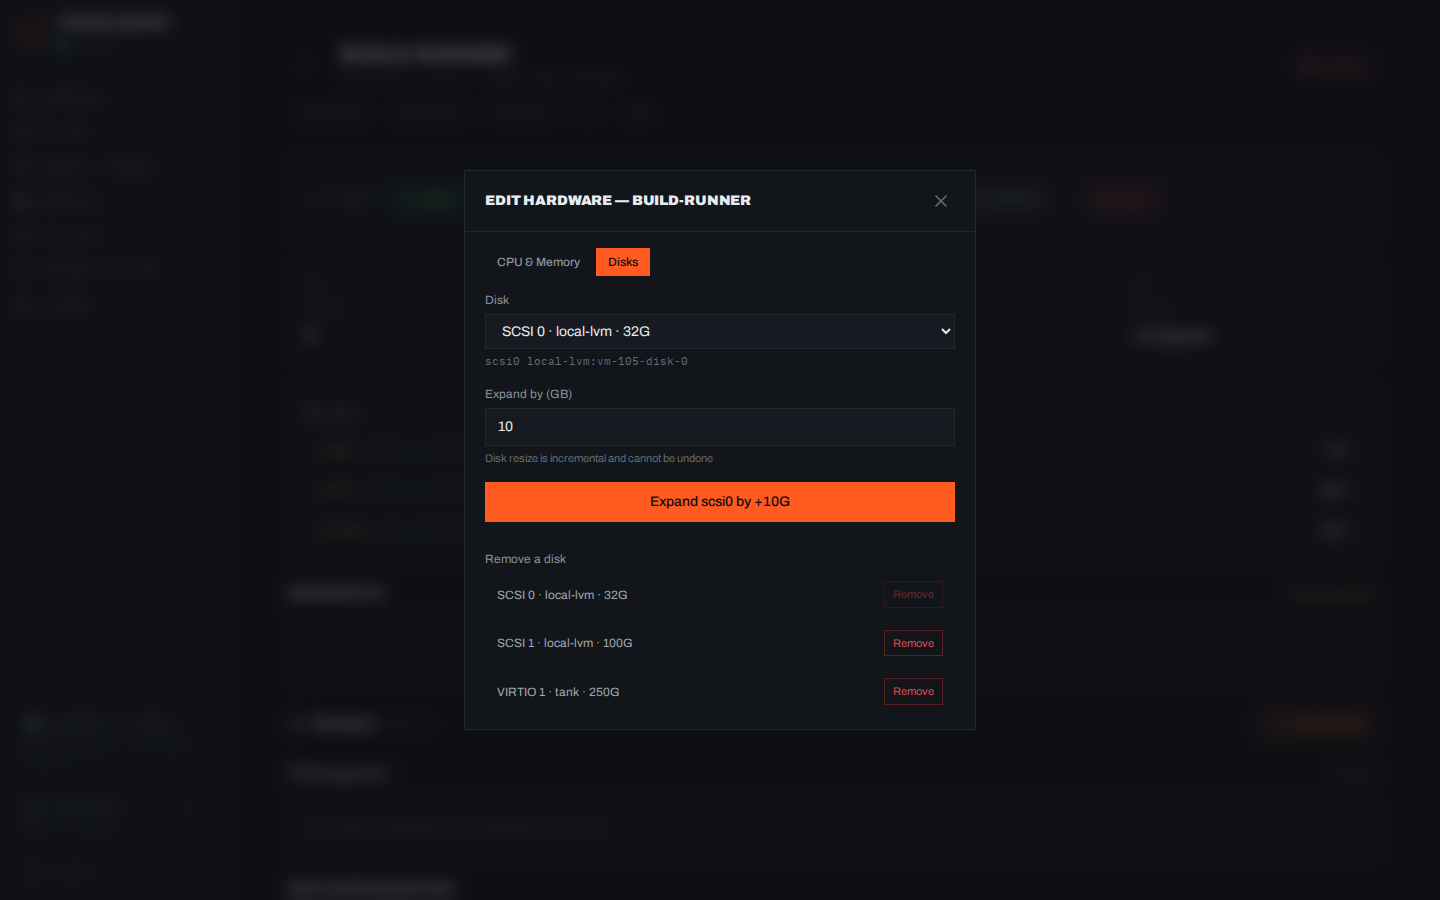
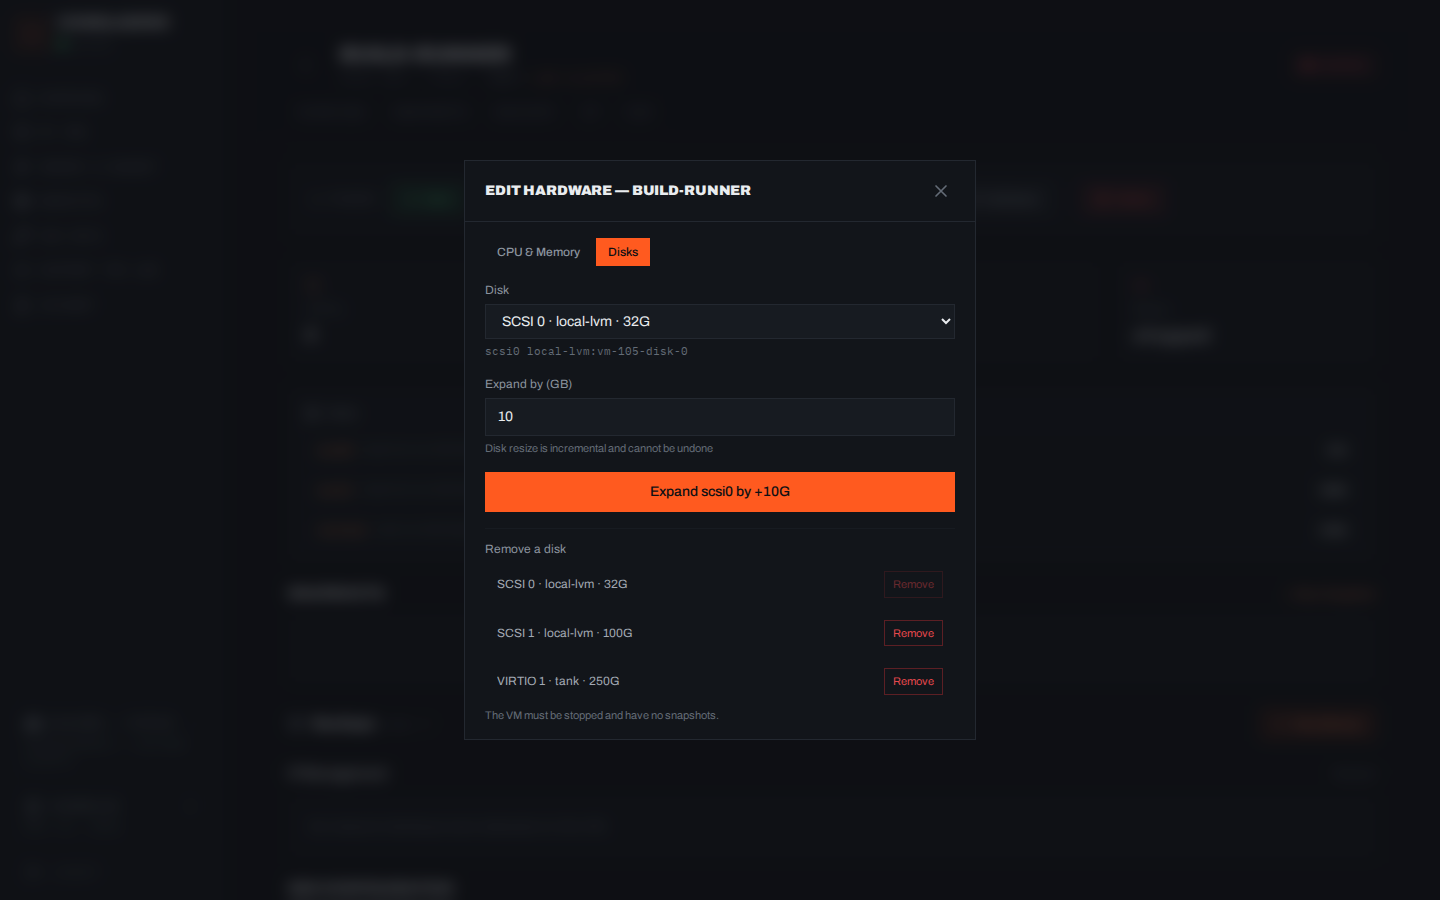
Address review: harden disk removal guards
- Run the removal under the VM migration lock, refusing a pending
  migration and a migrated-away source copy.
- Resolve a single owner before deleting (409 on conflicting aliases).
- Only delete PVE-managed volumes this VM owns (vm-<vmid>-disk-N); host
  paths and other VMs' volumes would merely be detached.
- Boot fallback follows PVE's first disk across ide/sata/scsi/virtio.
- Removal only lowers the existing quota floor, never raises it.
- UI disables Remove for non-owners and the new cases, with tooltips.

Changed region(s): [[0.3125, 0.1867, 0.6562, 0.7156], [0.3438, 0.7467, 0.5, 0.8089], [0.625, 0.6222, 0.6562, 0.7778]]

diff --git a/backend/src/routes/vms.ts b/backend/src/routes/vms.ts
@@ -1363,11 +1363,17 @@ router.put('/:node/:vmid/resize-disk', pHardware, async (req, res) => {
 });
 
 // Disks the VM boots from: every entry of `boot: order=...` plus the legacy
-// `bootdisk`; with neither naming a present disk, scsi0/virtio0 are assumed.
+// `bootdisk`. With neither naming a present disk, PVE boots its first disk
+// (ide, sata, scsi, virtio order; see resolve_first_disk), so that one is protected.
+const DISK_BUSES = ['ide', 'sata', 'scsi', 'virtio'];
 function bootDiskKeys(config) {
   const order = String(config?.boot ?? '').match(/(?:^|,)order=([^,]*)/)?.[1];
   const keys = new Set([...(order ? order.split(';') : []), ...(config?.bootdisk ? [config.bootdisk] : [])]);
-  if (![...keys].some((k) => /^(scsi|virtio|sata|ide)\d+$/.test(k) && typeof config?.[k] === 'string')) { keys.add('scsi0'); keys.add('virtio0'); }
+  const disks = Object.keys(config || {})
+    .map((k) => k.match(/^(ide|sata|scsi|virtio)(\d+)$/))
+    .filter((m) => m && typeof config[m[0]] === 'string' && !config[m[0]].split(',').includes('media=cdrom'))
+    .sort((a, b) => DISK_BUSES.indexOf(a[1]) - DISK_BUSES.indexOf(b[1]) || Number(a[2]) - Number(b[2]));
+  if (!disks.some((m) => keys.has(m[0])) && disks[0]) keys.add(disks[0][0]);
   return keys;
 }
 
@@ -1384,21 +1390,37 @@ router.delete('/:node/:vmid/disks/:disk', pHardware, async (req, res) => {
   }
 
   try {
-    const config = await getVMConfigCurrent(node, vmid);
-    const value = typeof config?.[disk] === 'string' ? config[disk] : '';
-    if (!value || value.split(',')[0] === 'none') throw httpError(404, `Disk ${disk} not found on this VM`);
-    if (value.includes('cloudinit') || value.split(',').includes('media=cdrom')) {
-      throw httpError(400, 'CD-ROM and cloud-init drives cannot be removed here');
-    }
-    if (bootDiskKeys(config).has(disk)) throw httpError(409, `${disk} is a boot disk and cannot be removed`);
-    if ((await getVMStatus(node, vmid))?.status !== 'stopped') throw httpError(409, 'Stop the VM before removing a disk');
-    // PVE keeps a volume a snapshot still references (as unusedN), so the delete would silently not happen.
-    if ((await getSnapshots(node, vmid))?.some((snap) => snap.name !== 'current')) {
-      throw httpError(409, 'Delete this VM\'s snapshots before removing a disk');
-    }
+    const parsedVmid = parseInt(vmid, 10);
+    // Conflicting owner aliases would leave the quota unaccounted: refuse before deleting anything.
+    await vmQuotaUserId(node, parsedVmid, req.session.userId);
+    const value = await withVmMigrationLock(parsedVmid, async (database) => {
+      if (await vmMigrationPending(database, parsedVmid)) {
+        throw httpError(409, 'VM migration is running or awaiting review; disk removal is blocked');
+      }
+      // Also refuses a migrated-away source copy, whose disks may be shared with the target.
+      await assertVmPolicyLocation(database, node, parsedVmid);
+      const config = await getVMConfigCurrent(node, vmid);
+      const value = typeof config?.[disk] === 'string' ? config[disk] : '';
+      const volume = value.split(',')[0];
+      if (!value || volume === 'none') throw httpError(404, `Disk ${disk} not found on this VM`);
+      if (value.includes('cloudinit') || value.split(',').includes('media=cdrom')) {
+        throw httpError(400, 'CD-ROM and cloud-init drives cannot be removed here');
+      }
+      // PVE only deletes a managed volume this VM owns; a host path or another VM's volume would just be detached.
+      if (!new RegExp(`^[A-Za-z0-9][\\w.-]*:(?:[^,]*/)?vm-${parsedVmid}-disk-\\d+(?:\\.\\w+)?$`).test(volume)) {
+        throw httpError(400, `${disk} is not a storage volume owned by this VM; ask an administrator to remove it`);
+      }
+      if (bootDiskKeys(config).has(disk)) throw httpError(409, `${disk} is a boot disk and cannot be removed`);
+      if ((await getVMStatus(node, vmid))?.status !== 'stopped') throw httpError(409, 'Stop the VM before removing a disk');
+      // PVE keeps a volume a snapshot still references (as unusedN), so the delete would silently not happen.
+      if ((await getSnapshots(node, vmid))?.some((snap) => snap.name !== 'current')) {
+        throw httpError(409, 'Delete this VM\'s snapshots before removing a disk');
+      }
+      await deleteVMDisk(node, vmid, disk);
+      return value;
+    });
 
-    await deleteVMDisk(node, vmid, disk);
-    await refreshHardwareAllocation(node, Number(vmid), { removeDiskGb: diskSizeGb(value) || 0, config });
+    await refreshHardwareAllocation(node, parsedVmid, { removeDiskGb: diskSizeGb(value) || 0 });
     await logAudit(req, 'vm_disk_remove', `${node}/${vmid}`, `${disk} (${value.split(',')[0]})`);
     res.json({ ok: true });
   } catch (err) {

diff --git a/backend/src/routes/vmDiskRemove.test.ts b/backend/src/routes/vmDiskRemove.test.ts
@@ -6,7 +6,7 @@ import express from 'express';
 import request from 'supertest';
 import { eq } from 'drizzle-orm';
 import { createTestDatabase, type TestDatabase } from '../testUtils/pgTestDb.ts';
-import { users, pveHosts, vmAssignments, auditLog } from '../db/schema/index.ts';
+import { users, pveHosts, vmAssignments, vmMigrations, auditLog } from '../db/schema/index.ts';
 
 // DELETE /vms/:node/:vmid/disks/:disk — owner-only, never the boot disk, stopped VMs only,
 // and the deleted volume stops counting against the owner's storage quota.
@@ -22,13 +22,17 @@ let snapshots: { name: string }[] = [{ name: 'current' }];
 let quota: typeof import('../utils/quota.ts');
 const unlinks: { path: string; method: string; body: string }[] = [];
 
-const CONFIG = {
+const CONFIG: Record<string, string> = {
   boot: 'order=scsi0;ide2;net0',
   scsi0: 'local-lvm:vm-500-disk-0,size=20G',
   scsi1: 'local-lvm:vm-500-disk-1,size=10G',
+  // PVE would only detach these, never delete the data behind them.
+  scsi2: 'local-lvm:vm-999-disk-0,size=5G',
+  scsi3: '/dev/disk/by-id/ata-passthrough,size=100G',
   ide2: 'local-lvm:vm-500-cloudinit,media=cdrom',
   net0: 'virtio=BC:24:11:00:00:01,bridge=vmbr0',
 };
+let config = CONFIG;
 
 before(async () => {
   testDb = await createTestDatabase();
@@ -63,6 +67,7 @@ beforeEach(t => {
   sessionUserId = ownerId;
   vmStatus = 'stopped';
   snapshots = [{ name: 'current' }];
+  config = CONFIG;
   unlinks.length = 0;
   t.mock.method(https, 'request', (url: URL, options: { method?: string }, callback: (res: EventEmitter) => void) => {
     const outgoing = new EventEmitter();
@@ -81,7 +86,7 @@ beforeEach(t => {
           let data: unknown = null;
           if (path === '/api2/json/nodes') data = [{ node: 'pve' }];
           else if (path === '/api2/json/cluster/resources') data = [{ vmid: 500, node: 'pve', type: 'qemu' }];
-          else if (path.endsWith('/qemu/500/config')) data = CONFIG;
+          else if (path.endsWith('/qemu/500/config')) data = config;
           else if (path.endsWith('/qemu/500/status/current')) data = { status: vmStatus };
           else if (path.endsWith('/qemu/500/snapshot')) data = snapshots;
           else if (path.endsWith('/qemu/500/unlink')) unlinks.push({ path, method: options?.method || '', body });
@@ -116,10 +121,38 @@ test('malformed or non-removable disk keys are refused before any change', async
   assert.equal(unlinks.length, 0);
 });
 
+test('host paths and volumes of another VM are refused', async () => {
+  for (const disk of ['scsi2', 'scsi3']) {
+    const res = await remove(disk);
+    assert.equal(res.status, 400, disk);
+    assert.match(res.body.error, /not a storage volume owned by this VM/);
+  }
+  assert.equal(unlinks.length, 0);
+});
+
 test('the boot disk is refused', async () => {
   const res = await remove('scsi0');
   assert.equal(res.status, 409);
   assert.match(res.body.error, /boot disk/);
+  // Without boot order or bootdisk, PVE boots the first disk across buses, sata before scsi.
+  config = { sata0: 'local-lvm:vm-500-disk-0,size=20G', scsi0: 'local-lvm:vm-500-disk-1,size=10G' };
+  assert.equal((await remove('sata0')).status, 409);
+  assert.equal(unlinks.length, 0);
+});
+
+test('a pending migration or conflicting owner aliases are refused', async () => {
+  const [migration] = await testDb.db.insert(vmMigrations).values({
+    vmid: 500, source_node: node, target_node: node, status: 'running',
+  }).returning({ id: vmMigrations.id });
+  const migrating = await remove('scsi1');
+  assert.equal(migrating.status, 409);
+  assert.match(migrating.body.error, /migration/);
+  await testDb.db.delete(vmMigrations).where(eq(vmMigrations.id, migration.id));
+
+  const [alias] = await testDb.db.insert(vmAssignments).values({ user_id: operatorId, node: 'pve', vmid: 500 })
+    .returning({ id: vmAssignments.id });
+  assert.equal((await remove('scsi1')).status, 409);
+  await testDb.db.delete(vmAssignments).where(eq(vmAssignments.id, alias.id));
   assert.equal(unlinks.length, 0);
 });
 

diff --git a/frontend/src/utils/diskLabel.test.js b/frontend/src/utils/diskLabel.test.js
@@ -16,18 +16,23 @@ test('edge values', () => {
   assert.equal(diskLabel({ name: 'scsi2', storage: '/dev/disk/by-id/x', size: '1T' }), 'SCSI 2 · /dev/disk/by-id/x · 1T');
 });
 
-test('boot disks come from the boot order, then bootdisk, then scsi0/virtio0', () => {
+test('boot disks come from the boot order, then bootdisk, then the first disk across buses', () => {
   const disk = 'local-lvm:vm-1-disk-0,size=8G';
   assert.deepEqual([...bootDiskKeys({ boot: 'order=virtio1;ide2;net0', virtio1: disk })], ['virtio1', 'ide2', 'net0']);
   assert.ok(bootDiskKeys({ boot: 'cdn', bootdisk: 'sata0', sata0: disk }).has('sata0'));
-  const fallback = bootDiskKeys({ boot: 'order=ide2;net0', scsi0: disk });
-  assert.ok(fallback.has('scsi0') && fallback.has('virtio0'));
+  const fallback = bootDiskKeys({ boot: 'order=ide2;net0', ide2: 'local:iso/x.iso,media=cdrom', scsi1: disk, sata3: disk });
+  assert.ok(fallback.has('sata3') && !fallback.has('scsi1'));
 });
 
 test('remove blockers', () => {
-  assert.equal(diskRemoveBlocker({ name: 'scsi1', storage: 'local-lvm:vm-1-disk-1' }, false), '');
-  assert.equal(diskRemoveBlocker({ name: 'scsi0', storage: 'local-lvm:vm-1-disk-0', boot: true }, false), 'Boot disk: cannot be removed');
-  assert.equal(diskRemoveBlocker({ name: 'ide2', storage: 'local-lvm:vm-1-cloudinit' }, false), 'Not a data disk');
-  assert.equal(diskRemoveBlocker({ name: 'efidisk0', storage: 'local-lvm:vm-1-disk-2' }, false), 'Not a data disk');
-  assert.equal(diskRemoveBlocker({ name: 'scsi1', storage: 'local-lvm:vm-1-disk-1' }, true), 'Stop the VM to remove disks');
+  const ok = { vmid: 1, isRunning: false, canRemove: true };
+  assert.equal(diskRemoveBlocker({ name: 'scsi1', storage: 'local-lvm:vm-1-disk-1' }, ok), '');
+  assert.equal(diskRemoveBlocker({ name: 'scsi1', storage: 'local:1/vm-1-disk-1.qcow2' }, ok), '');
+  assert.equal(diskRemoveBlocker({ name: 'scsi1', storage: 'local-lvm:vm-1-disk-1' }, { ...ok, canRemove: false }), 'Only the VM owner can remove disks');
+  assert.equal(diskRemoveBlocker({ name: 'scsi0', storage: 'local-lvm:vm-1-disk-0', boot: true }, ok), 'Boot disk: cannot be removed');
+  assert.equal(diskRemoveBlocker({ name: 'ide2', storage: 'local-lvm:vm-1-cloudinit' }, ok), 'Not a data disk');
+  assert.equal(diskRemoveBlocker({ name: 'efidisk0', storage: 'local-lvm:vm-1-disk-2' }, ok), 'Not a data disk');
+  assert.match(diskRemoveBlocker({ name: 'scsi2', storage: '/dev/disk/by-id/ata-x' }, ok), /Not a volume owned/);
+  assert.match(diskRemoveBlocker({ name: 'scsi2', storage: 'local-lvm:vm-11-disk-0' }, ok), /Not a volume owned/);
+  assert.equal(diskRemoveBlocker({ name: 'scsi1', storage: 'local-lvm:vm-1-disk-1' }, { ...ok, isRunning: true }), 'Stop the VM to remove disks');
 });

diff --git a/frontend/src/utils/diskLabel.js b/frontend/src/utils/diskLabel.js
@@ -7,17 +7,24 @@ export function diskLabel(d) {
 }
 
 // Mirrors the backend's removal guard: disks in `boot: order=...` or the legacy
-// `bootdisk`; with neither naming a present disk, scsi0/virtio0 are assumed.
+// `bootdisk`; with neither naming a present disk, PVE's first disk (ide, sata, scsi, virtio).
+const DISK_BUSES = ['ide', 'sata', 'scsi', 'virtio'];
 export function bootDiskKeys(cfg) {
   const order = String(cfg?.boot ?? '').match(/(?:^|,)order=([^,]*)/)?.[1];
   const keys = new Set([...(order ? order.split(';') : []), ...(cfg?.bootdisk ? [cfg.bootdisk] : [])]);
-  if (![...keys].some((k) => /^(scsi|virtio|sata|ide)\d+$/.test(k) && typeof cfg?.[k] === 'string')) { keys.add('scsi0'); keys.add('virtio0'); }
+  const disks = Object.keys(cfg || {})
+    .map((k) => k.match(/^(ide|sata|scsi|virtio)(\d+)$/))
+    .filter((m) => m && typeof cfg[m[0]] === 'string' && !cfg[m[0]].split(',').includes('media=cdrom'))
+    .sort((a, b) => DISK_BUSES.indexOf(a[1]) - DISK_BUSES.indexOf(b[1]) || Number(a[2]) - Number(b[2]));
+  if (!disks.some((m) => keys.has(m[0])) && disks[0]) keys.add(disks[0][0]);
   return keys;
 }
 
-// Why a disk cannot be removed, or '' when it can.
-export function diskRemoveBlocker(d, isRunning) {
+// Why a disk cannot be removed, or '' when it can. `canRemove` is the owner signal (status canDelete).
+export function diskRemoveBlocker(d, { vmid, isRunning, canRemove }) {
+  if (!canRemove) return 'Only the VM owner can remove disks';
   if (!/^(scsi|virtio|sata|ide)\d+$/.test(d.name) || String(d.storage).includes('cloudinit')) return 'Not a data disk';
+  if (!new RegExp(`^[A-Za-z0-9][\\w.-]*:(?:.*/)?vm-${Number(vmid)}-disk-\\d+(?:\\.\\w+)?$`).test(d.storage)) return 'Not a volume owned by this VM: ask an administrator';
   if (d.boot) return 'Boot disk: cannot be removed';
   if (isRunning) return 'Stop the VM to remove disks';
   return '';

diff --git a/backend/src/utils/quota.ts b/backend/src/utils/quota.ts
@@ -104,9 +104,9 @@ export async function refreshHardwareAllocation(
   const addDiskGb = updates.addDiskGb && updates.addDiskGb > 0 ? updates.addDiskGb : 0;
   // PVE maxdisk only reflects the boot disk, so growth of any disk is kept in
   // the allocation floor instead; it is measured against every disk in config.
+  const measuredDiskGb = addDiskGb && updates.config ? configDiskGb(updates.config).diskGb : 0;
+  // Removal only lowers an existing floor: freeing a disk must never raise the measured usage.
   const removeDiskGb = updates.removeDiskGb && updates.removeDiskGb > 0 ? updates.removeDiskGb : 0;
-  // `config` is the pre-change config, so a removed disk is still part of the measure.
-  const measuredDiskGb = (addDiskGb || removeDiskGb) && updates.config ? configDiskGb(updates.config).diskGb : 0;
   await db.transaction(async tx => {
     const owners = await tx.select({ user_id: vmAssignments.user_id }).from(vmAssignments)
       .where(and(eq(vmAssignments.vmid, vmid), inArray(vmAssignments.node, candidates)));
@@ -128,7 +128,7 @@ export async function refreshHardwareAllocation(
         ...(updates.cores !== undefined ? { cores: updates.cores } : {}),
         ...(updates.memoryMb !== undefined ? { memoryMb: updates.memoryMb } : {}),
         ...(addDiskGb ? { diskGb: Math.max(base.diskGb, measuredDiskGb) + addDiskGb } : {}),
-        ...(removeDiskGb ? { diskGb: Math.max(0, Math.max(base.diskGb, measuredDiskGb) - removeDiskGb) } : {}),
+        ...(removeDiskGb ? { diskGb: Math.max(0, base.diskGb - removeDiskGb) } : {}),
       } }).where(eq(vmAssignments.id, row.id));
     }
   });

diff --git a/frontend/src/components/VMHardwareModal.jsx b/frontend/src/components/VMHardwareModal.jsx
@@ -242,7 +242,7 @@ export default function VMHardwareModal({ vm, disks, onClose, onSaved }) {
                     <p className="text-xs text-gray-400 mb-1.5">Remove a disk</p>
                     <ul className="space-y-1.5">
                       {disks.map((d) => {
-                        const blocker = diskRemoveBlocker(d, isRunning);
+                        const blocker = diskRemoveBlocker(d, { vmid: vm.vmid, isRunning, canRemove: !!vm.canDelete });
                         return (
                           <li key={d.name} className="flex items-center justify-between gap-3 bg-gray-900/50 rounded-lg px-3 py-2">
                             <span className="text-xs text-gray-300 truncate" title={`${d.name} ${d.storage}`}>{diskLabel(d)}</span>

diff --git a/CHANGELOG.md b/CHANGELOG.md
@@ -3,7 +3,7 @@
 ## 2026-11-24 — Remove a disk from a VM
 
 - The hardware dialog's **Disks** tab now lists the VM's disks with a **Remove** button. Removing a disk detaches it and permanently deletes its volume, after a confirmation that names the disk. The storage it used is freed and stops counting against your storage quota.
-- Only the VM's owner (or an admin) with the edit-hardware permission can remove a disk, and only while the VM is stopped and has no snapshots, because Proxmox keeps a disk that a snapshot still uses. The boot disk cannot be removed: its button is disabled, with a tooltip saying why. CD-ROM and cloud-init drives are not offered.
+- Only the VM's owner (or an admin) with the edit-hardware permission can remove a disk, and only while the VM is stopped and has no snapshots, because Proxmox keeps a disk that a snapshot still uses. Removal is also blocked during a migration. The boot disk, host-path disks and volumes belonging to another VM cannot be removed: their button is disabled, with a tooltip saying why. CD-ROM and cloud-init drives are not offered.
 
 ![Hardware dialog Disks tab with a Remove button per disk, disabled for the boot disk](docs/screenshots/changelog/2026-11-24-remove-vm-disk.png)
 
